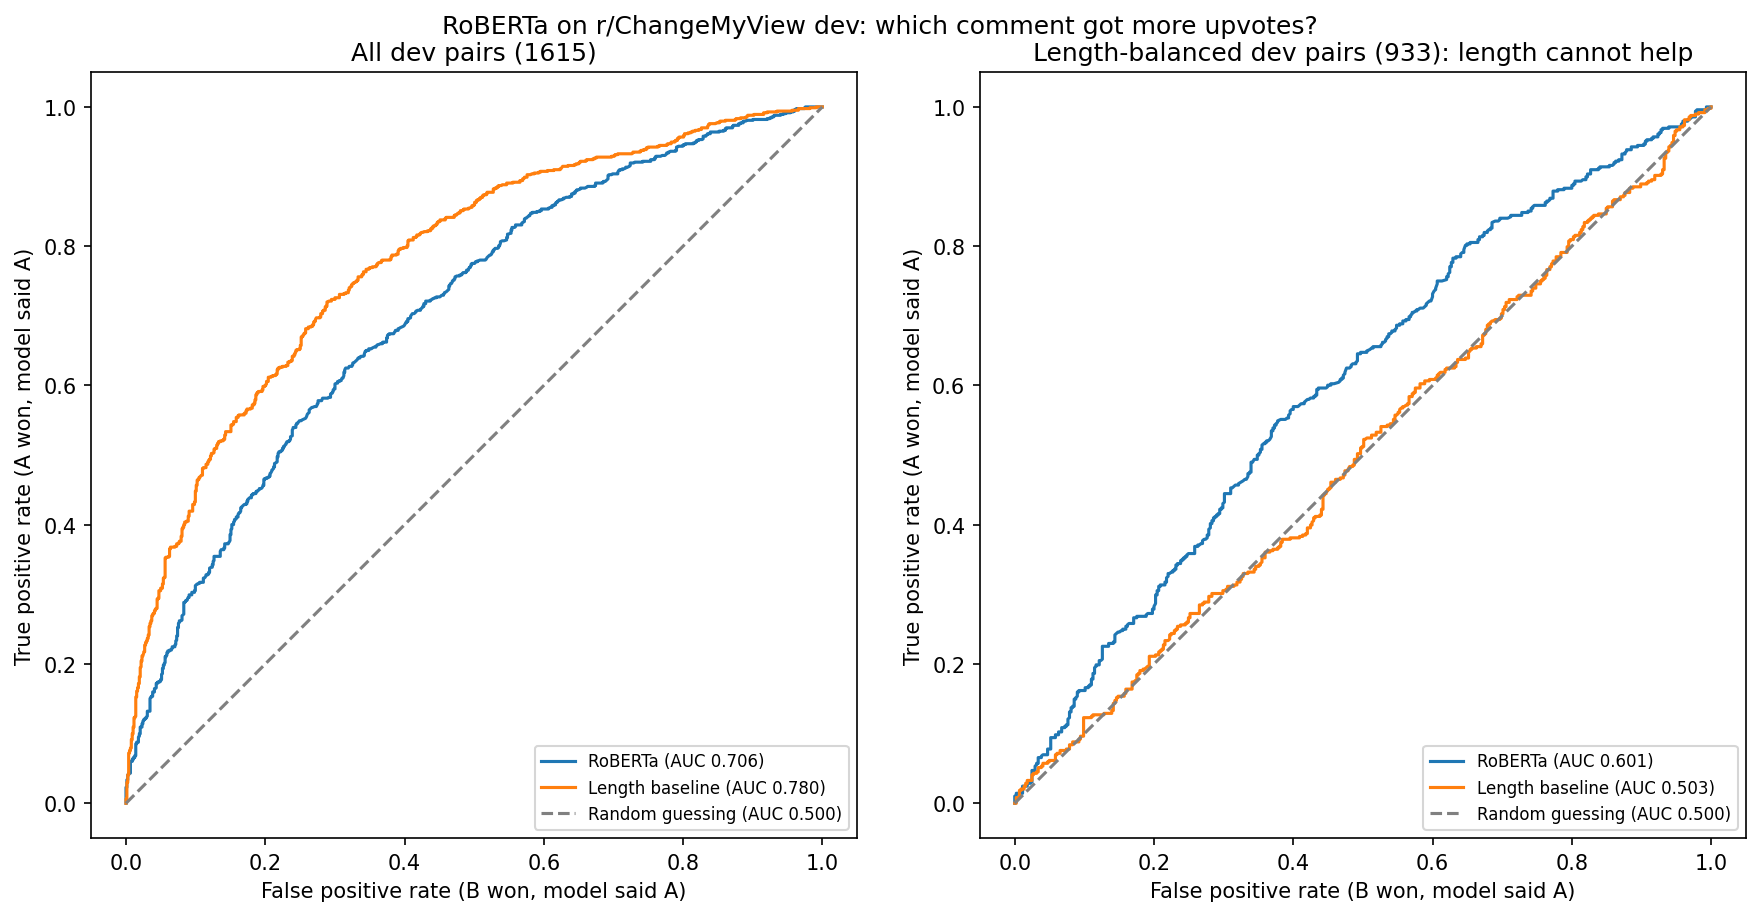
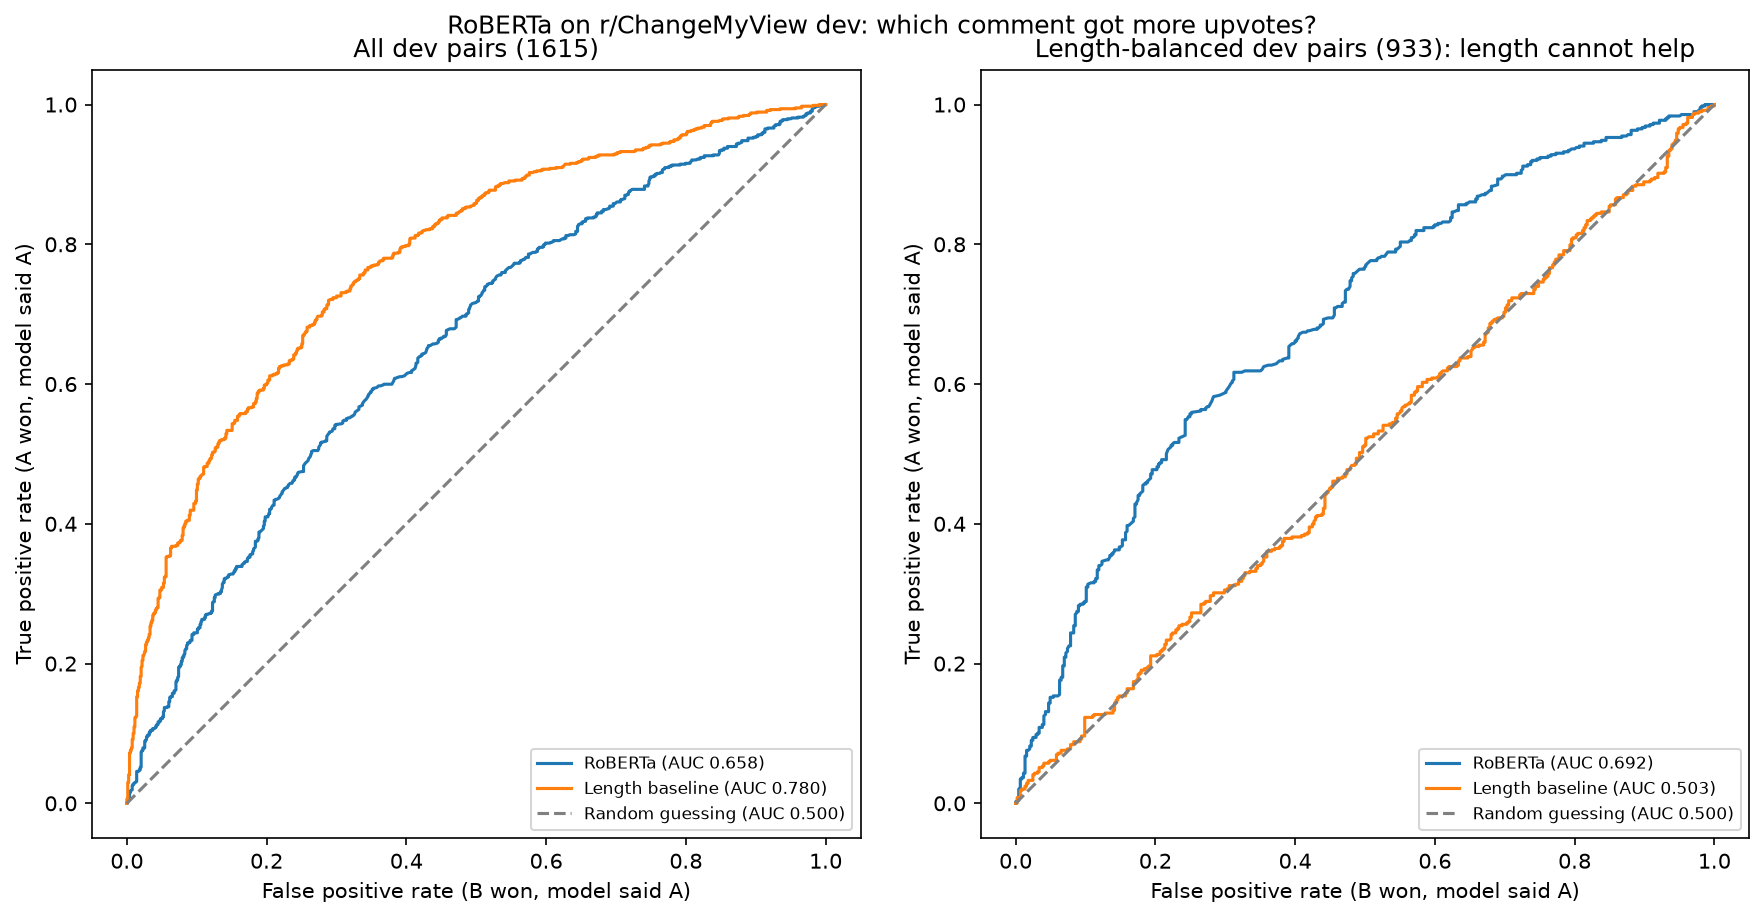
roberta changes

diff --git a/models/roberta/train.py b/models/roberta/train.py
@@ -240,6 +240,8 @@ class RoBERTa:
 
     def predict_probability(self, pairs):
         """P(labels = 1), the probability that comment A wins."""
+        if "n_tokens" not in pairs.columns:   # test sets arrive untokenized
+            pairs = self.pretokenize(pairs)
         self.model.eval()
         order = np.argsort(pairs["n_tokens"].to_numpy())
         probabilities = np.empty(len(pairs))
@@ -260,30 +262,6 @@ class RoBERTa:
 
 
 # Evaluation
-
-def accuracy(predictions, labels):
-    return float(np.mean(np.asarray(predictions) == np.asarray(labels)))
-
-def similar_length_accuracy(predictions, pairs, max_ratio=1.25):
-    """Accuracy on the pairs where the longer comment is less than 1.25x the shorter one.
-    There, picking the longer comment does not help, so the model has to use the words."""
-    mask = length_ratio(pairs) < max_ratio
-    if not mask.any():
-        return float("nan")
-    return accuracy(np.asarray(predictions)[mask.to_numpy()],
-                    pairs["labels"].to_numpy()[mask.to_numpy()])
-
-def evaluate(name, model, pairs):
-    """Prints the model's accuracy next to the length baseline on one set of pairs."""
-    pairs = model.pretokenize(pairs)
-    predictions = model.predict(pairs)
-    labels = pairs["labels"].to_numpy()
-
-    print(f"{name}")
-    print(f"Accuracy: {accuracy(predictions, labels):.4f}")
-    print(f"Similar-length accuracy: {similar_length_accuracy(predictions, pairs):.4f}")
-    print(f"Length baseline accuracy: {accuracy(pick_longer(pairs), labels):.4f}")
-
 
 if __name__ == "__main__":
     resume = "--resume-training" in sys.argv
